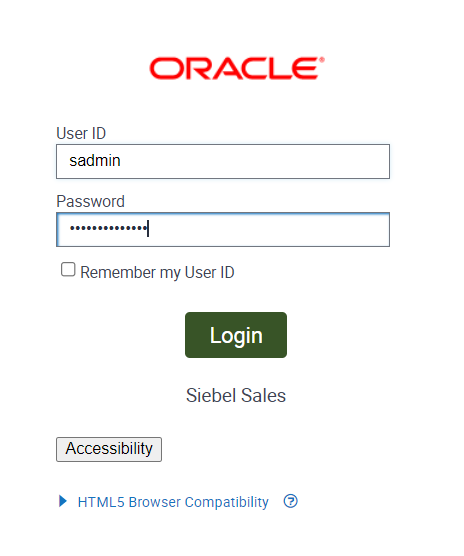
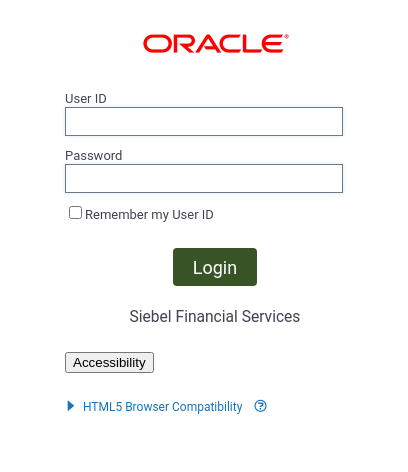
Update access-siebel-oke lab

diff --git a/siebel-cloud-manager/access-siebel-oke/access-siebel-oke.md b/siebel-cloud-manager/access-siebel-oke/access-siebel-oke.md
@@ -2,59 +2,40 @@
 
 ## Introduction
 
-In this lab, we shall access the Siebel Kubernetes Cluster that hosts the newly deployed Siebel CRM. In this way, we can see the various pods, services, and other Kubernetes resources running in the cluster and manage them as required.
+In this lab, we access the Siebel Kubernetes Cluster hosting our deployed Siebel CRM Enterprise. We'll see the various pods, services, and other Kubernetes resources running in the cluster.
 
-Estimated Time: 20 minutes
+Estimated Time: 15 minutes
 
 ### Objectives
 
 In this lab, you will:
-*   Gather connection details of the Siebel Kubernetes Cluster
-*   Set up access to the Cluster from Siebel Cloud Manager instance
 *   View the Siebel CRM environment in Kubernetes
 
 ### Prerequisites
 
 * SSH Key
 
-## Task 1: Gather connection details of the Siebel Kubernetes Cluster
+## Task 1: View the Siebel CRM environment in Kubernetes
 
-1. Log in to Oracle Cloud Console and navigate to **Developer Services** and **Kubernetes Clusters (OKE)**
+1. First log in via SSH to the SCM machine.
 
-2. In the **List Scope** section on the left side panel, choose the compartment **SiebelLab**
-
-3. Drill down on the cluster name, **siebellab\_oke\_cluster**
-
-4. Click ***Access Cluster***
-
-5. Click ***Local Access*** and note the commands mentioned.
-
-## Task 2: Set up access to connect to the Cluster from Siebel Cloud Manager instance
-
-1. Connect to the Siebel Cloud Manager instance through PuTTY using the ssh private key that we had created in Lab 1. Enter the username as **opc**
-
-2. Execute the following command to enter the Siebel Cloud Manager container.
+2. Once logged in to the SCM via SSH, enter the following command
 
    ```
-   $ <copy>docker exec -it cloudmanager bash</copy>
+   <copy>docker exec -it cloudmanager bash</copy>
    ```
 
-3. Now, execute the commands mentioned in the **Local Access** page from Oracle Cloud Console one by one in the PuTTY session. The commands would look like this,
+   This drops us into a shell inside the cloudmanager container.
+
+3. In Lab 4, we deployed Siebel CRM and, via a REST API call, we received an environment ID, referred to as **env_id**, which we used to follow the progress of the deployment. 
+
+   Now we will want to interrogate the Kubernetes environment deployed for that environment. To begin, we can issue the following command for the environment.
 
    ```
-   $ <copy>mkdir -p $HOME/.kube</copy>
+   <copy>source /home/opc/siebel/{env_id}/k8sprofile</copy>
    ```
-   ```
-   $ <copy>oci ce cluster create-kubeconfig --cluster-id {OCID_of_the_Cluster} --file $HOME/.kube/config --region us-ashburn-1 --token-version 2.0.0  --kube-endpoint PUBLIC_ENDPOINT</copy>
-   ```
-   ```
-   $ <copy>export KUBECONFIG=$HOME/.kube/config</copy>
-   ```
-4. The config information will be written to the **$HOME/.kube/config** file of the Siebel Cloud Manager container. We are now ready to access the cluster.
 
-## Task 3: View the Siebel CRM environment in Kubernetes
-
-1. To view all the resources that were created as part of the new Siebel CRM environment, execute the following command.
+4. To view all the resources that were created as part of the new Siebel CRM environment, execute the following command (assuming you stuck with the name 'SiebelLab' in your environment payload)
 
    ```
    $ <copy>kubectl -n siebellab get all</copy>
@@ -62,9 +43,22 @@ In this lab, you will:
 
    ![Siebel Cluster Details Screenshot](./images/sbl-cluster-details.png)
 
-In the above screenshot, the **siebelcgw-0** pod represents the Siebel Gateway, the **edge-0** pod represents the Siebel Server, and the **quantum-0** pod represents the Siebel Application Interface.
+   In the above screenshot, the **siebelcgw-0** pod represents the Siebel Gateway, the **edge-0** pod represents the Siebel Server, and the **quantum-0** pod represents the Siebel Application Interface.
 
-2. To enter a particular pod to execute commands or check services' status and so on, execute the following command.
+6. You can verify the version of the Siebel container in use as follows.
+
+    ```
+    $ <copy>kubectl -n siebellab describe edge-0 | grep -i version</copy>
+    ```
+
+   or
+
+    ```
+    $ <copy>kubectl -n siebellab describe edge-0 | grep -i image</copy>
+    ```
+
+
+5. To enter a particular pod to execute commands or check services' status and so on, execute the following command.
 
     ```
     $ <copy>kubectl -n siebellab exec -it {Pod_Name} -- /bin/bash</copy>
@@ -73,12 +67,32 @@ In the above screenshot, the **siebelcgw-0** pod represents the Siebel Gateway, 
     ```
     $ <copy>kubectl -n siebellab exec -it edge-0 -- /bin/bash</copy>
     ```
+
+6. From within the edge-0 pod, you can now connect to the database should you need to.
+
+   ```
+   $ <copy>sqlplus admin/{admin_password}@siebellab_tp</copy>
+   ```
+
+   When revisiting the vault secret for the password, ensure to click the radio button to show the decoded Base64 value if you aim to cut and paste the value you used.
+
+   ![Vault Secret](./images/plaintext-vault-secret.png)
+
+
+7. We could also view the typical siebel processes running within the container.
+
+   ```
+   $ <copy>ps -ef</copy>
+   ```
+
+   ![Edge-0 Processes](./images/edge-0-processes.png)
+
 ## Summary
 
-In this lab, we accessed the Siebel Kubernetes Cluster and viewed the various resources that support the Siebel CRM environment.
+In this lab, we accessed the Siebel Kubernetes Cluster,viewed the various resources that support the Siebel CRM environment, and delved briefly into the edge-0 container.
 
 ## Acknowledgements
 
-* **Author:** Shyam Mohandas, Principal Cloud Architect; Sampath Nandha, Principal Cloud Architect
+* **Author:** Duncan Ford, Software Engineer; Shyam Mohandas, Principal Cloud Architect; Sampath Nandha, Principal Cloud Architect
 * **Contributors** - Vinodh Kolluri, Raj Aggarwal, Mark Farrier, Sandeep Kumar
-* **Last Updated By/Date** - Sampath Nandha, Principal Cloud Architect, March 2023
+* **Last Updated By/Date** - Duncan Ford, Software Engineer, May 2024

diff --git a/siebel-cloud-manager/deploy-siebel-crm/deploy-siebel-crm.md b/siebel-cloud-manager/deploy-siebel-crm/deploy-siebel-crm.md
@@ -58,63 +58,63 @@ We're now ready to use SCM to deploy Siebel CRM on OCI. To do this, we shall fir
 
 1. Consider the sample payload below. Substitute parameter values inside **{}** as required.
 
-```
+   ```
    <copy>
-{
-  "name": "SiebelLab",
-  "siebel": {
-    "registry_url": " {Available_Registry_Endpoint_In_Your_Region},
-    "registry_user": "{User_Id_To_Connect_To_Container_Registry}",
-    "registry_password": "{User_Auth_Token}",
-    "database_type": "Vanilla",
-    "industry": "Financial Services"
-  },
-  "infrastructure": {
-    "gitlab_url": "https://{Public IP of Gitlab Instance}",
-    "gitlab_accesstoken": "{Gitlab_Access_Token}",
-    "gitlab_user": "root",
-    "gitlab_selfsigned_cacert": "/home/opc/certs/rootCA.crt"
-  },
-  "database": {
-    "db_type": "ATP",
-    "atp": {
-      "admin_password": "{OCID_For_Vault_Secret_For_Admin_Password}",
-      "storage_in_tbs": "1",
-      "cpu_cores": "2",
-      "wallet_password": "{OCID_For_Vault_Secret_For_Wallet_Password}"
-    },
-    "auth_info": {
-      "table_owner_password": "{OCID_For_Vault_Secret_For_TBLO_Password}",
-      "table_owner_user": "SIEBEL",
-      "default_user_password": "{OCID_For_Vault_Secret_For_Default_User}",
-      "anonymous_user_password": "{OCID_For_Vault_Secret_For_Anonymous_User_Password}",
-      "siebel_admin_password": "{OCID_For_Vault_Secret_For_Admin_Password}",
-      "siebel_admin_username": "SADMIN"
-    }
-  },
-  "size": {
-    "kubernetes_node_shape": "VM.Standard.E4.Flex",
-    "kubernetes_node_count": 3,
-    "node_shape_config": {
-      "memory_in_gbs": 20,
-      "ocpus": 2
-    },
-    "ses_resource_limits": {
-      "cpu": "2",
-      "memory": "15Gi"
-    },
-    "cgw_resource_limits": {
-      "cpu": "2",
-      "memory": "15Gi"
-    },
-    "sai_resource_limits": {
-      "cpu": "1",
-      "memory": "15Gi"
-    }
-  }
-}
-</copy>
-```
+   {
+   "name": "SiebelLab",
+   "siebel": {
+         "registry_url": "{Available_Registry_Endpoint_In_Your_Region}",
+         "registry_user": "{User_Id_To_Connect_To_Container_Registry}",
+         "registry_password": "{User_Auth_Token}",
+         "database_type": "Vanilla",
+         "industry": "Financial Services"
+      },
+      "infrastructure": {
+         "gitlab_url": "https://{Public IP of Gitlab Instance}",
+         "gitlab_accesstoken": "{Gitlab_Access_Token}",
+         "gitlab_user": "root",
+         "gitlab_selfsigned_cacert": "/home/opc/certs/rootCA.crt"
+      },
+      "database": {
+         "db_type": "ATP",
+         "atp": {
+            "admin_password": "{OCID_For_Vault_Secret_For_Admin_Password}",
+            "storage_in_tbs": "1",
+            "cpu_cores": "2",
+            "wallet_password": "{OCID_For_Vault_Secret_For_Wallet_Password}"
+         },
+         "auth_info": {
+            "table_owner_password": "{OCID_For_Vault_Secret_For_TBLO_Password}",
+            "table_owner_user": "SIEBEL",
+            "default_user_password": "{OCID_For_Vault_Secret_For_Default_User}",
+            "anonymous_user_password": "{OCID_For_Vault_Secret_For_Anonymous_User_Password}",
+            "siebel_admin_password": "{OCID_For_Vault_Secret_For_Admin_Password}",
+            "siebel_admin_username": "SADMIN"
+         }
+      },
+      "size": {
+         "kubernetes_node_shape": "VM.Standard.E4.Flex",
+         "kubernetes_node_count": 3,
+         "node_shape_config": {
+            "memory_in_gbs": 20,
+            "ocpus": 2
+         },
+         "ses_resource_limits": {
+            "cpu": "2",
+            "memory": "15Gi"
+         },
+         "cgw_resource_limits": {
+            "cpu": "2",
+            "memory": "15Gi"
+         },
+         "sai_resource_limits": {
+            "cpu": "1",
+            "memory": "15Gi"
+         }
+      }
+   }
+   </copy>
+   ```
 
 ### Payload Parameter Options
 
@@ -358,6 +358,6 @@ In the next lab, you can view and manage the Siebel's Kubernetes Cluster to conn
 
 ## Acknowledgements
 
-* **Author:** Duncan Ford, Software Engineer, Shyam Mohandas, Principal Cloud Architect; Sampath Nandha, Principal Cloud Architect
+* **Author:** Duncan Ford, Software Engineer; Shyam Mohandas, Principal Cloud Architect; Sampath Nandha, Principal Cloud Architect
 * **Contributors** - Vinodh Kolluri, Raj Aggarwal, Mark Farrier, Sandeep Kumar
 * **Last Updated By/Date** - Duncan Ford, Software Engineer, May 2024
